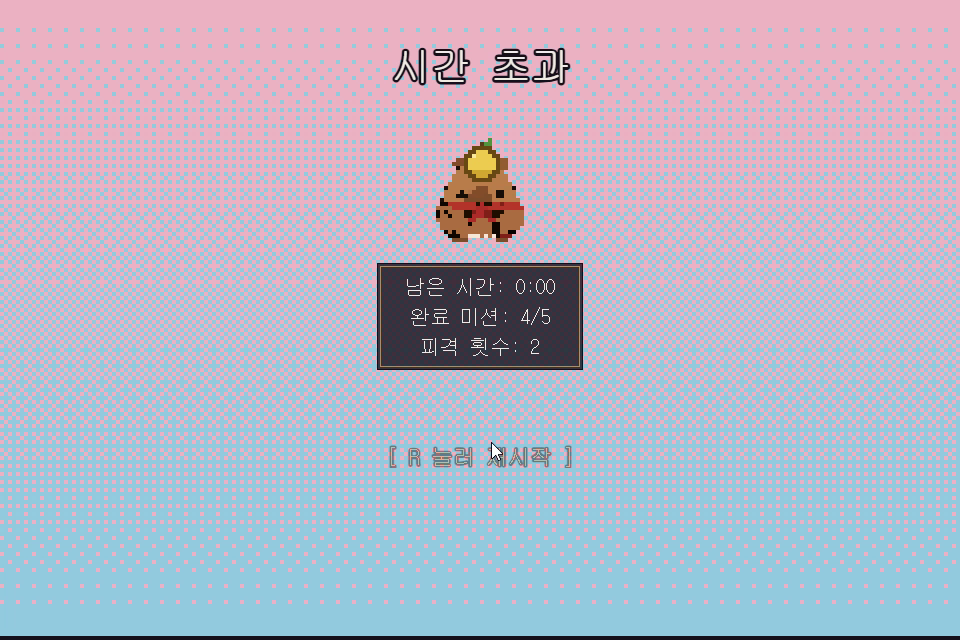
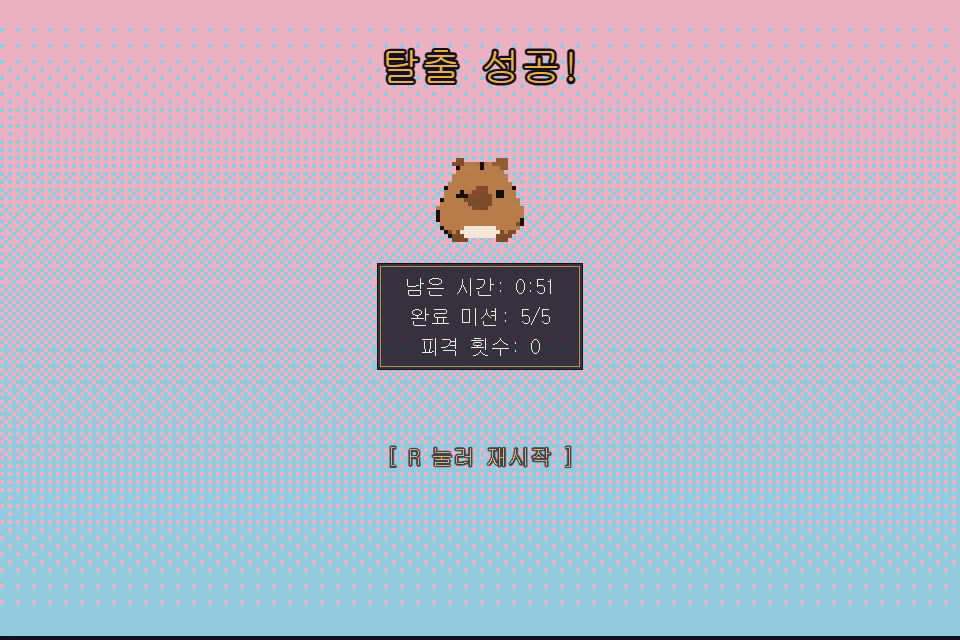
chore: 스크린샷 E를 탈출 성공 판으로 교체 (시간 초과 4/5 -> 탈출 성공 5/5 무피격)
HG 집행용으로 찍은 cave 클리어 판의 결과 화면이다.
남은 시간 0:51 / 완료 미션 5/5 / 피격 0 — 게임이 실제로 클리어 가능하다는 것을
결과 화면 하나로 보여준다.

캡션도 같이 고쳤다: 이 판은 커스터마이즈를 하지 않아 기본 카피바라가 나온다.
'내가 꾸민 카피바라'라는 문구를 그대로 두면 그림과 어긋나므로 지웠다.
꾸민 모습은 스크린샷 B(커스터마이즈)와 C(인게임)가 이미 보여준다.

diff --git a/docs/SUBMISSION_GAME_INTRO.md b/docs/SUBMISSION_GAME_INTRO.md
@@ -105,7 +105,7 @@ S1 타이틀  →  S2 커스터마이즈  →  S3 인게임  →  S4 결과  ─
 | S3 | 인게임 | 타임어택 본편 (HUD: 남은 시간 · 체력 · `미션 n/5`) | 탈출 / 시간초과 / 체력 0 |
 | S4 | 결과 | 결과 문구 · 남은 시간 · 완료 미션 수 · 피격 횟수 · **내가 꾸민 카피바라** | `R` → S2 |
 
-`TODO(코디네이터)` — **스크린샷 E: 결과 화면** (내가 꾸민 카피바라 + 남은 시간·완료 미션·피격 횟수)
+`TODO(코디네이터)` — **스크린샷 E: 결과 화면** (탈출 성공 · 남은 시간 · 완료 미션 5/5 · 피격 0)
 
 ---
 
@@ -229,7 +229,7 @@ PATROL ──(시야 내 감지)──> CHASE ──(시야 이탈 3초)──> 
 | **B** | 커스터마이즈 화면 | 미리보기에 **옷·모자가 겹쳐진** 상태 (3레이어 합성이 보여야 함) | §5.1 끝 |
 | **C** | 인게임 | **고블린 시야 부채꼴이 화면에 보이는** 장면. HUD(남은 시간·체력·미션 n/5) 포함 | §5.3 끝 |
 | **D** | 미션 미니게임 | 오버레이가 열린 상태. M1 배선 또는 M3 순서 기억 권장 | §5.2 끝 |
-| **E** | 결과 화면 | 내가 꾸민 카피바라 + 남은 시간·완료 미션·피격 횟수 | §4 끝 |
+| **E** | 결과 화면 | 결과 문구 + 남은 시간·완료 미션·피격 횟수 (꾸민 모습은 B·C가 보여준다) | §4 끝 |
 
 > 촬영 전 **Ctrl+Shift+R**(하드 리프레시) 필수. `public/assets`는 파일명에 해시가 없어
 > 한 번 방문한 브라우저가 옛 그림을 캐시에서 보여준다(실측 확인됨).
